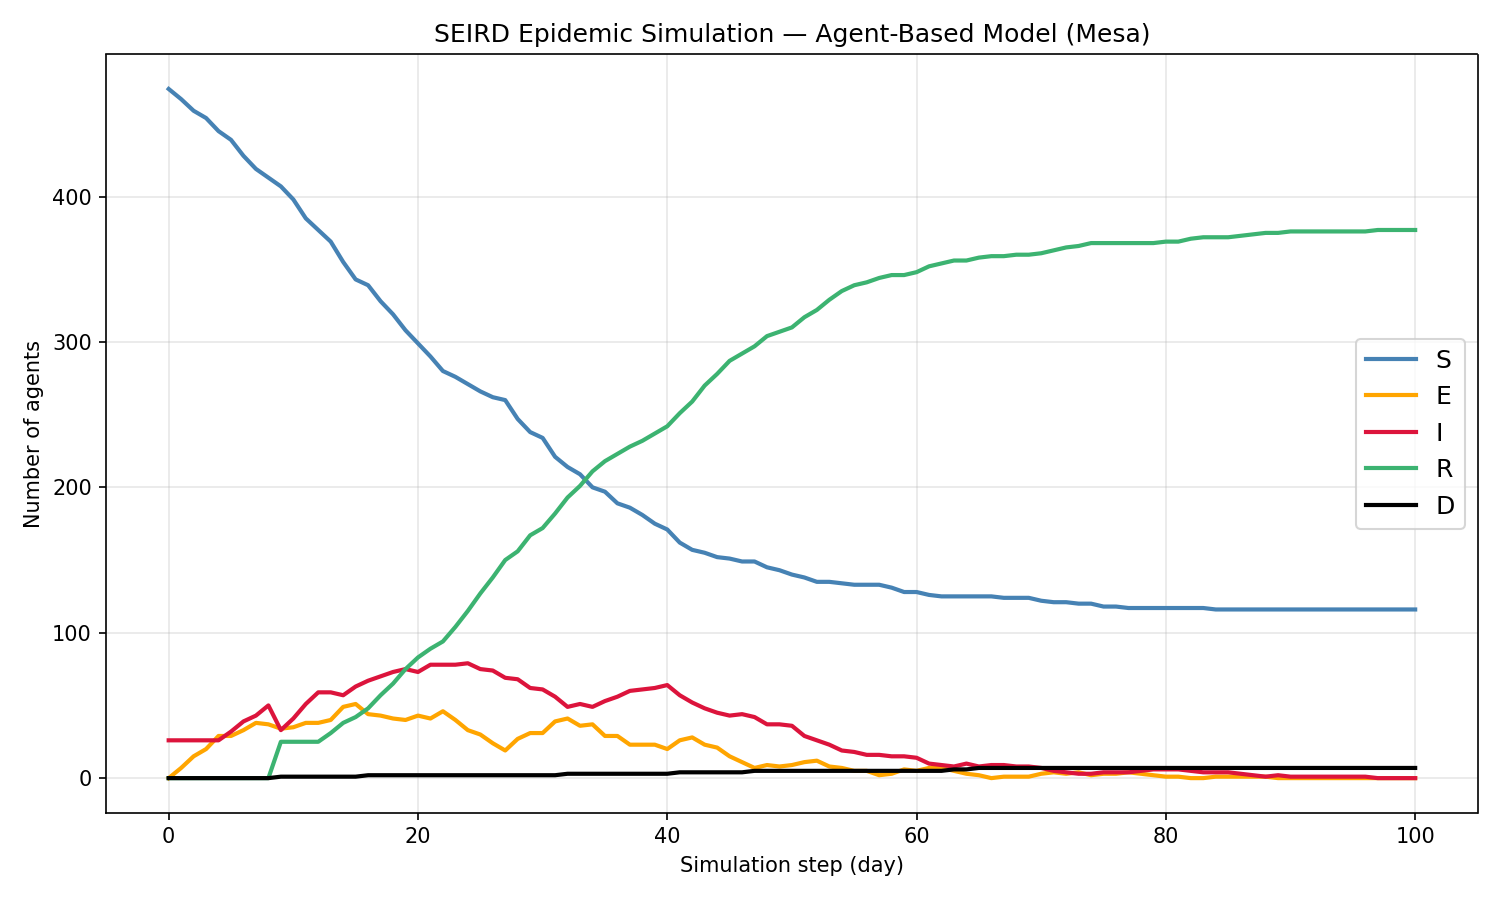
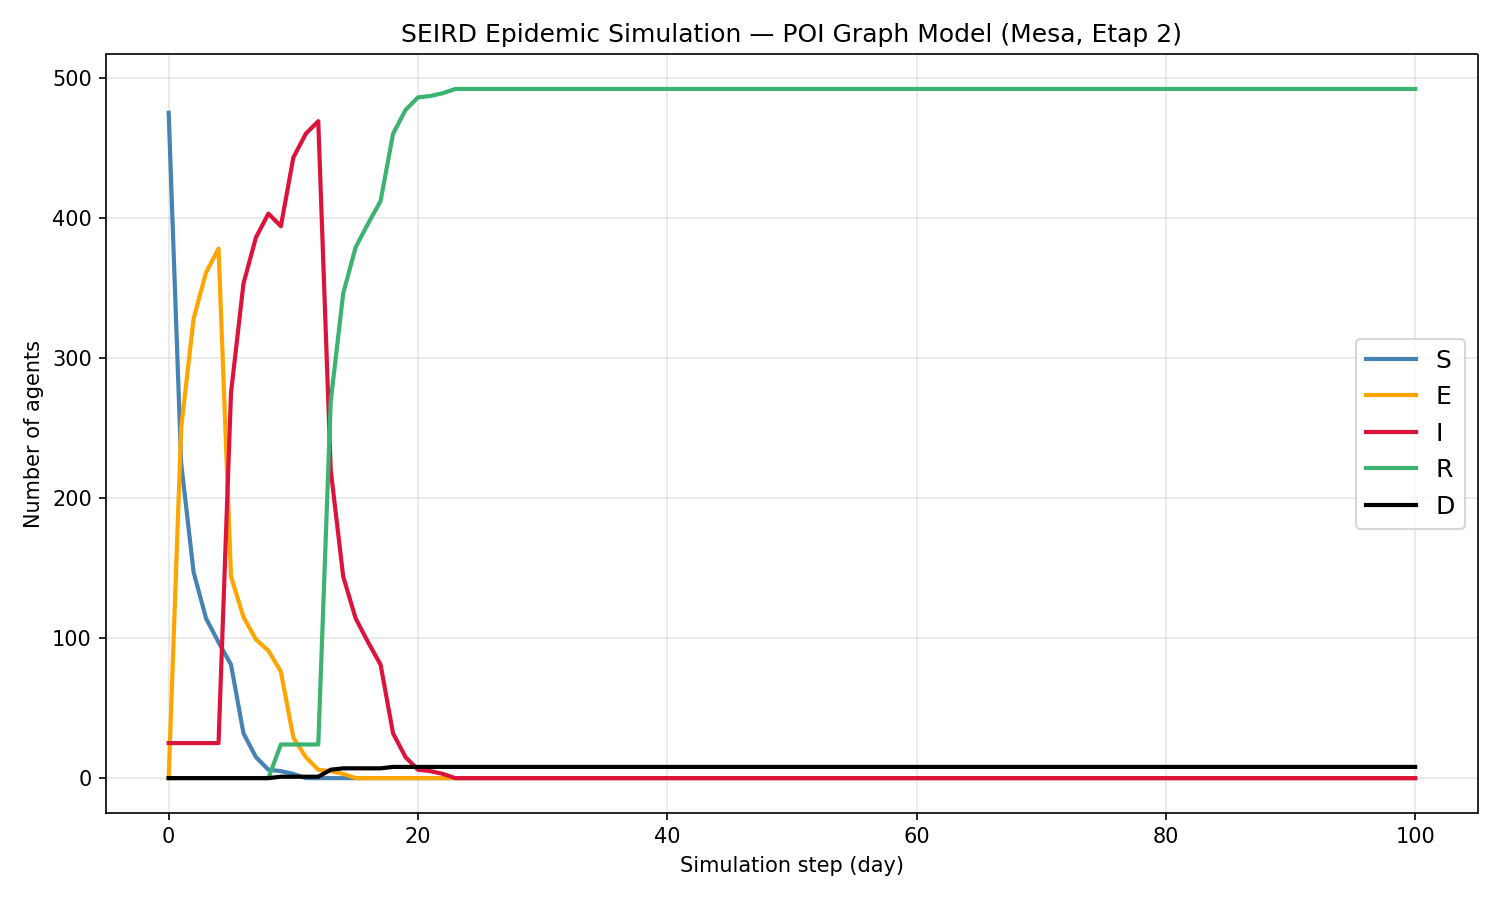
feat: add Streamlit dashboard, sensitivity analysis, update run_simulation
- dashboard.py: interactive sliders for maseczki/dystans/szczepienia/lockdown
- sensitivity_analysis.py: 5x5 heatmapa p_base_multiplier x eta_m
- run_simulation.py: updated for POI-graph model
- __init__.py: export all public symbols
- data/output: epidemic_curve.png + sensitivity_heatmap.png

diff --git a/scripts/dashboard.py b/scripts/dashboard.py
@@ -1,0 +1,94 @@
+"""Interaktywny dashboard Streamlit dla symulacji SEIRD — Etap 2."""
+import sys
+import pathlib
+
+sys.path.insert(0, str(pathlib.Path(__file__).parent.parent / "src"))
+
+import matplotlib.pyplot as plt
+import streamlit as st
+
+from simulation.model import EpidemicModel
+
+COLORS = {
+    "S": "steelblue",
+    "E": "orange",
+    "I": "crimson",
+    "R": "mediumseagreen",
+    "D": "black",
+}
+
+st.set_page_config(page_title="Pandemic Simulation — Etap 2", layout="wide")
+st.title("SEIRD Pandemic Simulation")
+st.caption("Wieloskalowy model agentowy z grafem POI — Etap 2")
+
+with st.sidebar:
+    st.header("Parametry populacji")
+    n_agents = st.slider("Liczba agentów", 100, 2000, 500, step=100)
+    steps = st.slider("Liczba dni symulacji", 50, 200, 100)
+    initial_infected_frac = st.slider("Startowe zakażenia (%)", 1, 20, 5) / 100
+
+    st.header("Interwencje")
+    mask_coverage = st.slider("Maseczki (% populacji)", 0, 100, 0) / 100
+    social_distancing_coverage = (
+        st.slider("Dystans społeczny (% populacji)", 0, 100, 0) / 100
+    )
+    vaccination_coverage = st.slider("Szczepienia (% populacji)", 0, 100, 0) / 100
+    lockdown = st.checkbox("Lockdown (zamknięte biura i sklepy)")
+
+run = st.button("▶ Uruchom symulację", type="primary")
+
+if run:
+    with st.spinner("Symulacja w toku…"):
+        model = EpidemicModel(
+            n_agents=n_agents,
+            initial_infected_frac=initial_infected_frac,
+            mask_coverage=mask_coverage,
+            social_distancing_coverage=social_distancing_coverage,
+            vaccination_coverage=vaccination_coverage,
+            lockdown=lockdown,
+        )
+        for _ in range(steps):
+            model.step()
+
+        data = model.datacollector.get_model_vars_dataframe()
+
+    col_chart, col_stats = st.columns([2, 1])
+
+    with col_chart:
+        st.subheader("Krzywe epidemiczne SEIRD")
+        fig, ax = plt.subplots(figsize=(10, 5))
+        for col, color in COLORS.items():
+            ax.plot(data.index, data[col], label=col, color=color, linewidth=2)
+        ax.set_xlabel("Dzień")
+        ax.set_ylabel("Liczba agentów")
+        ax.legend()
+        ax.grid(alpha=0.3)
+        fig.tight_layout()
+        st.pyplot(fig)
+        plt.close(fig)
+
+    with col_stats:
+        peak_i = int(data["I"].max())
+        peak_day = int(data["I"].idxmax())
+        final_r = int(data["R"].iloc[-1])
+        total_d = int(data["D"].iloc[-1])
+        attack_rate = (final_r + total_d) / n_agents * 100
+
+        st.subheader("Statystyki końcowe")
+        st.metric("Szczyt zakażonych (I)", peak_i, help=f"Dzień {peak_day}")
+        st.metric("Wyleczeni łącznie (R)", final_r)
+        st.metric("Zgony łącznie (D)", total_d)
+        st.metric("Attack rate", f"{attack_rate:.1f}%")
+
+        st.subheader("Rozkład stanów (dzień końcowy)")
+        final = data.iloc[-1]
+        fig2, ax2 = plt.subplots(figsize=(5, 3))
+        ax2.bar(final.index, final.values, color=[COLORS[c] for c in final.index])
+        ax2.set_ylabel("Agenci")
+        ax2.tick_params(axis="x", rotation=0)
+        fig2.tight_layout()
+        st.pyplot(fig2)
+        plt.close(fig2)
+
+    st.subheader("Dane surowe")
+    st.dataframe(data.style.format("{:.0f}"), use_container_width=True)

diff --git a/scripts/sensitivity_analysis.py b/scripts/sensitivity_analysis.py
@@ -1,0 +1,106 @@
+"""Analiza wrażliwości modelu na p_base_multiplier i eta_m.
+
+Uruchomienie:
+    uv run python scripts/sensitivity_analysis.py
+
+Wynik: data/output/sensitivity_heatmap.png
+"""
+import sys
+import pathlib
+
+sys.path.insert(0, str(pathlib.Path(__file__).parent.parent / "src"))
+
+import numpy as np
+import matplotlib.pyplot as plt
+import seaborn as sns
+
+from simulation.model import EpidemicModel
+
+P_BASE_MULTIPLIERS = [0.5, 0.75, 1.0, 1.25, 1.5]
+ETA_M_VALUES = [0.3, 0.4, 0.5, 0.6, 0.7]
+N_RUNS = 3
+STEPS = 100
+N_AGENTS = 500
+MASK_COVERAGE = 0.5
+
+n_rows = len(ETA_M_VALUES)
+n_cols = len(P_BASE_MULTIPLIERS)
+
+peak_i_grid = np.zeros((n_rows, n_cols))
+attack_rate_grid = np.zeros((n_rows, n_cols))
+
+total = n_rows * n_cols
+done = 0
+
+print(f"Analiza wrażliwości: {total} kombinacji × {N_RUNS} uruchomień = {total * N_RUNS} symulacji")
+print(f"mask_coverage={MASK_COVERAGE*100:.0f}%, N={N_AGENTS}, {STEPS} kroków\n")
+
+for j, mult in enumerate(P_BASE_MULTIPLIERS):
+    for i, eta_m in enumerate(ETA_M_VALUES):
+        peaks, attacks = [], []
+        for run in range(N_RUNS):
+            model = EpidemicModel(
+                n_agents=N_AGENTS,
+                mask_coverage=MASK_COVERAGE,
+                p_base_multiplier=mult,
+                eta_m=eta_m,
+            )
+            for _ in range(STEPS):
+                model.step()
+            df = model.datacollector.get_model_vars_dataframe()
+            peaks.append(df["I"].max())
+            attacks.append(
+                (df["R"].iloc[-1] + df["D"].iloc[-1]) / N_AGENTS * 100
+            )
+
+        peak_i_grid[i, j] = float(np.mean(peaks))
+        attack_rate_grid[i, j] = float(np.mean(attacks))
+        done += 1
+        print(
+            f"  [{done:2d}/{total}] mult={mult:.2f}  eta_m={eta_m:.1f}"
+            f"  →  peak_I={peak_i_grid[i,j]:.0f}  attack={attack_rate_grid[i,j]:.1f}%"
+        )
+
+x_labels = [f"{m:.2f}" for m in P_BASE_MULTIPLIERS]
+y_labels = [f"{e:.1f}" for e in ETA_M_VALUES]
+
+fig, axes = plt.subplots(1, 2, figsize=(14, 5))
+
+sns.heatmap(
+    peak_i_grid,
+    ax=axes[0],
+    xticklabels=x_labels,
+    yticklabels=y_labels,
+    annot=True,
+    fmt=".0f",
+    cmap="YlOrRd",
+    cbar_kws={"label": "Agenci"},
+)
+axes[0].set_xlabel("p_base multiplier")
+axes[0].set_ylabel("η_M (skuteczność maseczki)")
+axes[0].set_title("Szczyt zakaźnych (Peak I)")
+
+sns.heatmap(
+    attack_rate_grid,
+    ax=axes[1],
+    xticklabels=x_labels,
+    yticklabels=y_labels,
+    annot=True,
+    fmt=".1f",
+    cmap="YlOrRd",
+    cbar_kws={"label": "%"},
+)
+axes[1].set_xlabel("p_base multiplier")
+axes[1].set_ylabel("η_M (skuteczność maseczki)")
+axes[1].set_title("Attack Rate (%)")
+
+fig.suptitle(
+    f"Analiza wrażliwości — mask_coverage={MASK_COVERAGE*100:.0f}%, "
+    f"N={N_AGENTS}, {N_RUNS} runs/cell"
+)
+fig.tight_layout()
+
+out = pathlib.Path(__file__).parent.parent / "data" / "output" / "sensitivity_heatmap.png"
+plt.savefig(out, dpi=150)
+print(f"\nHeatmapa zapisana do: {out}")
+plt.show()

diff --git a/scripts/run_simulation.py b/scripts/run_simulation.py
@@ -1,4 +1,4 @@
-"""Run a single SEIRD simulation and plot epidemic curves."""
+"""Run a single SEIRD simulation with POI graph and plot epidemic curves."""
 import sys
 import pathlib
 
@@ -10,13 +10,14 @@ from simulation.model import EpidemicModel
 STEPS = 100
 PARAMS = dict(
     n_agents=500,
-    width=50,
-    height=50,
-    p_inf=0.20,
     incubation_period=4,
     infectious_period=8,
     p_death=0.02,
     initial_infected_frac=0.05,
+    mask_coverage=0.0,
+    social_distancing_coverage=0.0,
+    vaccination_coverage=0.0,
+    lockdown=False,
 )
 
 COLORS = {
@@ -42,17 +43,25 @@ def main() -> None:
 
     ax.set_xlabel("Simulation step (day)")
     ax.set_ylabel("Number of agents")
-    ax.set_title("SEIRD Epidemic Simulation — Agent-Based Model (Mesa)")
+    ax.set_title("SEIRD Epidemic Simulation — POI Graph Model (Mesa, Etap 2)")
     ax.legend(fontsize=12)
     ax.grid(alpha=0.3)
     fig.tight_layout()
 
-    out_path = pathlib.Path(__file__).parent.parent / "data" / "output" / "epidemic_curve.png"
+    out_path = (
+        pathlib.Path(__file__).parent.parent / "data" / "output" / "epidemic_curve.png"
+    )
     plt.savefig(out_path, dpi=150)
     print(f"Plot saved to {out_path}")
 
     print("\nFinal state counts:")
     print(data.iloc[-1].to_string())
+
+    peak_i = data["I"].max()
+    attack_rate = (data["R"].iloc[-1] + data["D"].iloc[-1]) / PARAMS["n_agents"] * 100
+    print(f"\nPeak I:      {int(peak_i)}")
+    print(f"Attack rate: {attack_rate:.1f}%")
+
     plt.show()
 
 

diff --git a/src/simulation/__init__.py b/src/simulation/__init__.py
@@ -1,0 +1,17 @@
+from .agents import HumanAgent, State
+from .model import EpidemicModel
+from .space import CityGraph, POINode, POIType, P_BASE
+from .transmission import compute_node_transmission, compute_p_eff, ETA_M
+
+__all__ = [
+    "HumanAgent",
+    "State",
+    "EpidemicModel",
+    "CityGraph",
+    "POINode",
+    "POIType",
+    "P_BASE",
+    "compute_node_transmission",
+    "compute_p_eff",
+    "ETA_M",
+]
